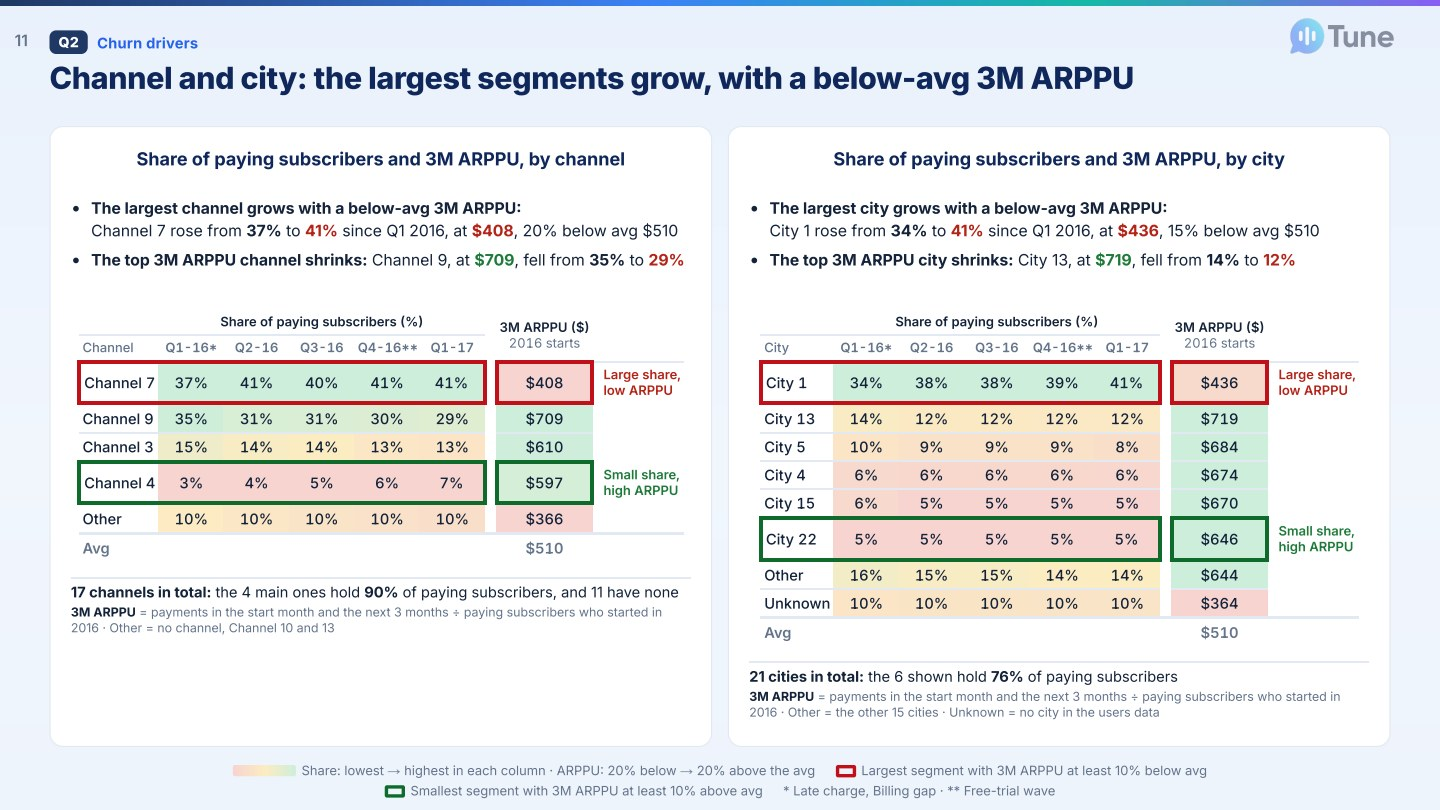
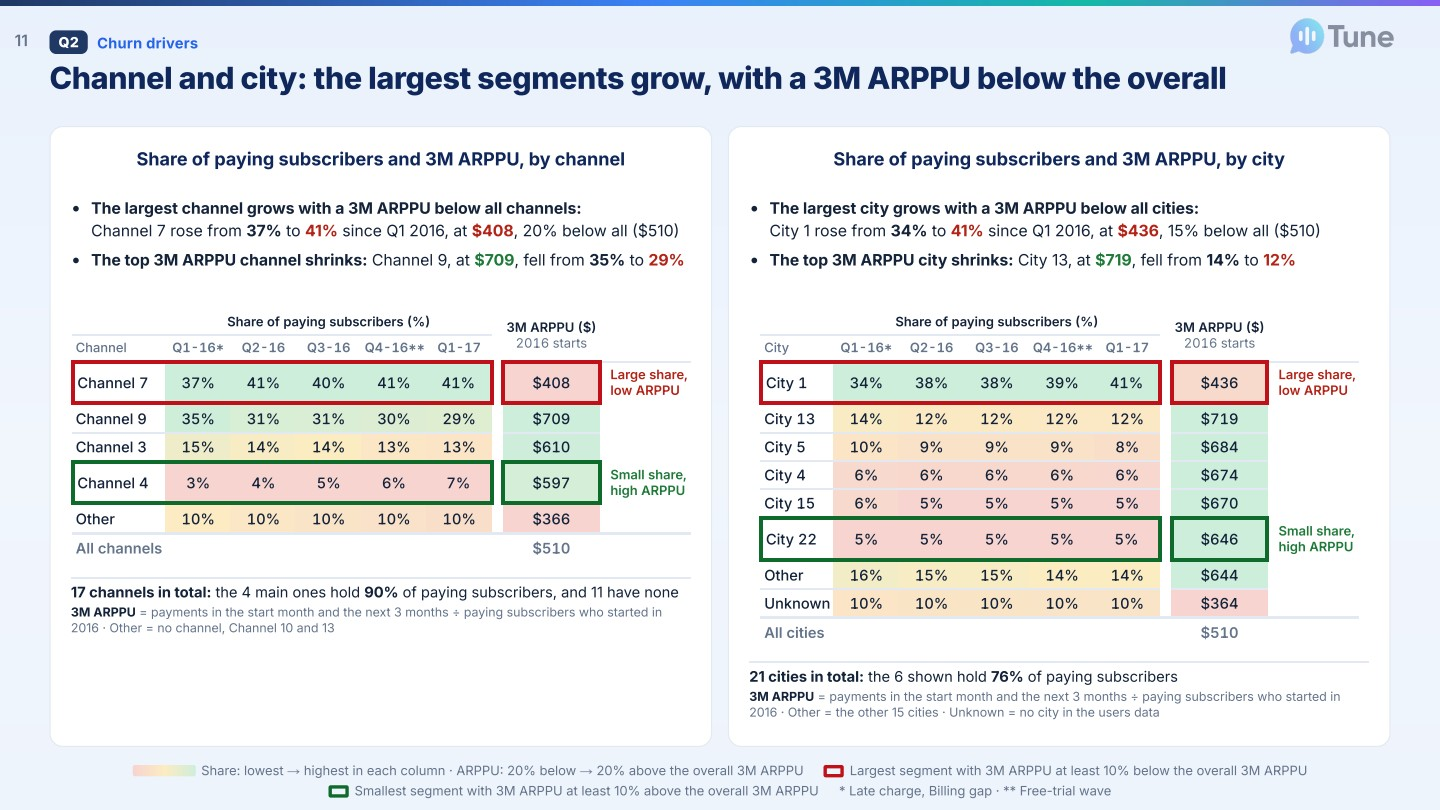
Deck: slide 11 "All channels" and "All cities" instead of Average

diff --git a/index.html b/index.html
@@ -3698,7 +3698,7 @@ const ISSUES = { raw_users: "U1-U11: age 0 or out of range, gender missing, regi
   raw_churn_labels: "L4-L7: labels don't match a naive 'due in March' population" };
 
 // ---------------- tabs ----------------
-const DECKV = "1118i";  // change on every deck update so browsers load the new slide images, not a cached copy
+const DECKV = "1118j";  // change on every deck update so browsers load the new slide images, not a cached copy
 const GROUPS = {
   intro: [["overview", "Overview"]],
   p1: [["dq", "1a · Data quality"], ["lineage", "1b.1 · Clean layer & data model"], ["explorer", "1b.2 · Explorer & SQL"], ["churn", "1c · Churn check"]],
